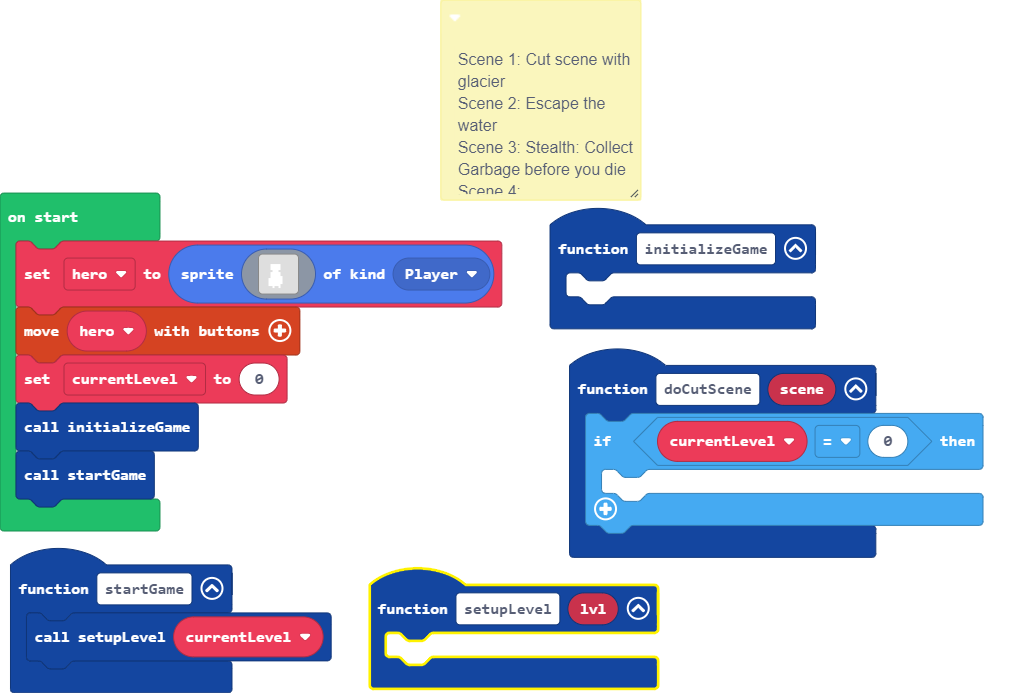
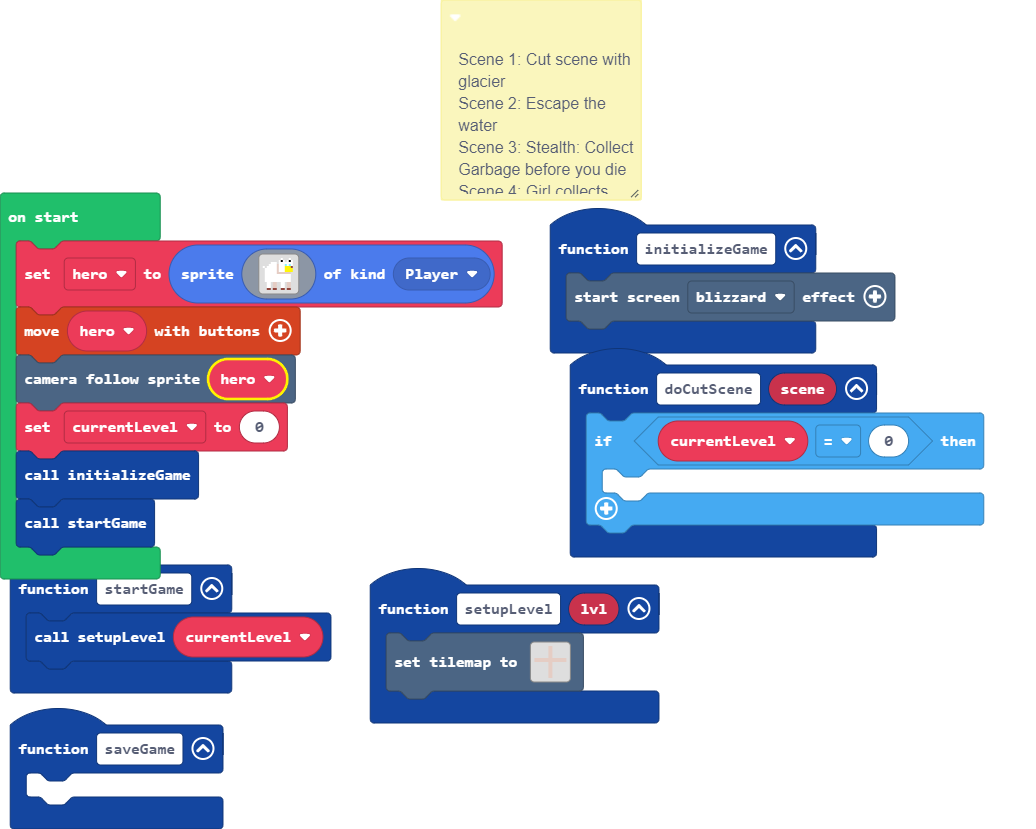
minor update

diff --git a/tilemap.g.ts b/tilemap.g.ts
@@ -1,0 +1,62 @@
+// Auto-generated code. Do not edit.
+namespace myTiles {
+    //% fixedInstance jres blockIdentity=images._tile
+    export const transparency16 = image.ofBuffer(hex``);
+    //% fixedInstance jres blockIdentity=images._tile
+    export const tile1 = image.ofBuffer(hex``);
+
+    helpers._registerFactory("tilemap", function(name: string) {
+        switch(helpers.stringTrim(name)) {
+            case "level2":
+            case "level2":return tiles.createTilemap(hex`1000100000000000000000000000000000000000000000000000000000000000000000000000000000000000000000000000000000000000000000000000000000000000000000000000000000000000000000000000000000000000000000000000000000000000000000000000000000000000000000000000000000000000000000000000000000000000000000000000000000000000000000000000000000000000000000000000000000000000000000000000000000000000000000000000000000000000000000000000000000000000000000000000000000000000000000000000000000000000000000000000000000000000000000000000000000000000`, img`
+. . . . . . . . . . . . . . . . 
+. . . . . . . . . . . . . . . . 
+. . . . . . . . . . . . . . . . 
+. . . . . . . . . . . . . . . . 
+. . . . . . . . . . . . . . . . 
+. . . . . . . . . . . . . . . . 
+. . . . . . . . . . . . . . . . 
+. . . . . . . . . . . . . . . . 
+. . . . . . . . . . . . . . . . 
+. . . . . . . . . . . . . . . . 
+. . . . . . . . . . . . . . . . 
+. . . . . . . . . . . . . . . . 
+. . . . . . . . . . . . . . . . 
+. . . . . . . . . . . . . . . . 
+. . . . . . . . . . . . . . . . 
+. . . . . . . . . . . . . . . . 
+`, [myTiles.transparency16], TileScale.Sixteen);
+            case "level1":
+            case "level1":return tiles.createTilemap(hex`1000100000000000000000010100000000000000000000000000000101000000000000000000000000000001010000000000000000000000000000010100000000000000000000000000000101000000000000000000000000000001010000000000000001010101010101010101010101010101010101010101010101010101010101010000000000000001010000000000000000000000000000010100000000000000000000000000000101000000000000000000000000000001010000000000000000000000000000010100000000000000000000000000000101000000000000000000000000000001010000000000000000000000000000010100000000000000`, img`
+. . . . . . . . . . . . . . . . 
+. . . . . . . . . . . . . . . . 
+. . . . . . . . . . . . . . . . 
+. . . . . . . . . . . . . . . . 
+. . . . . . . . . . . . . . . . 
+. . . . . . . . . . . . . . . . 
+. . . . . . . . . . . . . . . . 
+. . . . . . . . . . . . . . . . 
+. . . . . . . . . . . . . . . . 
+. . . . . . . . . . . . . . . . 
+. . . . . . . . . . . . . . . . 
+. . . . . . . . . . . . . . . . 
+. . . . . . . . . . . . . . . . 
+. . . . . . . . . . . . . . . . 
+. . . . . . . . . . . . . . . . 
+. . . . . . . . . . . . . . . . 
+`, [myTiles.transparency16,myTiles.tile1], TileScale.Sixteen);
+        }
+        return null;
+    })
+
+    helpers._registerFactory("tile", function(name: string) {
+        switch(helpers.stringTrim(name)) {
+            case "transparency16":return transparency16;
+            case "tOffWhite":
+            case "tile1":return tile1;
+        }
+        return null;
+    })
+
+}
+// Auto-generated code. Do not edit.

diff --git a/main.ts b/main.ts
@@ -1,16 +1,19 @@
 function setupLevel (lvl: number) {
-	
+    tiles.setTilemap(tilemap`level1`)
 }
 function startGame () {
     setupLevel(currentLevel)
 }
 function initializeGame () {
-	
+    effects.blizzard.startScreenEffect()
 }
 function doCutScene (scene2: number) {
     if (currentLevel == 0) {
     	
     }
+}
+function saveGame () {
+	
 }
 /**
  * Scene 1: Cut scene with glacier
@@ -19,11 +22,12 @@ function doCutScene (scene2: number) {
  * 
  * Scene 3: Stealth: Collect Garbage before you die
  * 
- * Scene 4:
+ * Scene 4: Girl collects Garbage to create wind farms
  */
 let currentLevel = 0
-let hero = sprites.create(assets.image`sprPoley`, SpriteKind.Player)
+let hero = sprites.create(assets.image`myImage`, SpriteKind.Player)
 controller.moveSprite(hero)
+scene.cameraFollowSprite(hero)
 currentLevel = 0
 initializeGame()
 startGame()

diff --git a/images.g.ts b/images.g.ts
@@ -22,6 +22,25 @@ namespace myImages {
 . . . . . 1 . . 1 . . . . . . . 
 . . . . . . . . . . . . . . . . 
 `;
+            case "image2":
+            case "myImage":return img`
+. . . . . . . . . 1 . . . 1 . . 
+. . . . . . . . 1 f 1 . 1 f 1 . 
+. . . . 1 1 1 . 1 1 1 1 1 1 1 . 
+. . . 1 1 1 1 d 1 1 1 9 1 9 1 . 
+1 . 1 1 1 1 1 d 1 1 1 5 5 5 e . 
+. 1 1 1 1 1 1 d 1 1 1 5 5 5 5 . 
+. 1 1 1 1 1 1 d 1 1 1 5 5 5 5 . 
+. 1 1 1 1 1 1 d d d d d d d . . 
+. 1 1 1 1 1 1 1 1 1 1 1 1 1 . . 
+. 1 1 1 1 1 1 1 1 1 1 1 1 1 . . 
+. 1 1 1 1 1 1 1 1 1 1 1 1 1 . . 
+. 1 1 1 1 1 1 1 1 1 1 1 1 1 . . 
+. . 1 1 . d d . . 1 1 . d d . . 
+. . 1 1 . d d . . 1 1 . d d . . 
+. . 1 1 . d d . . 1 1 . d d . . 
+. . e e . e e . . e e . e e . . 
+`;
         }
         return null;
     })
